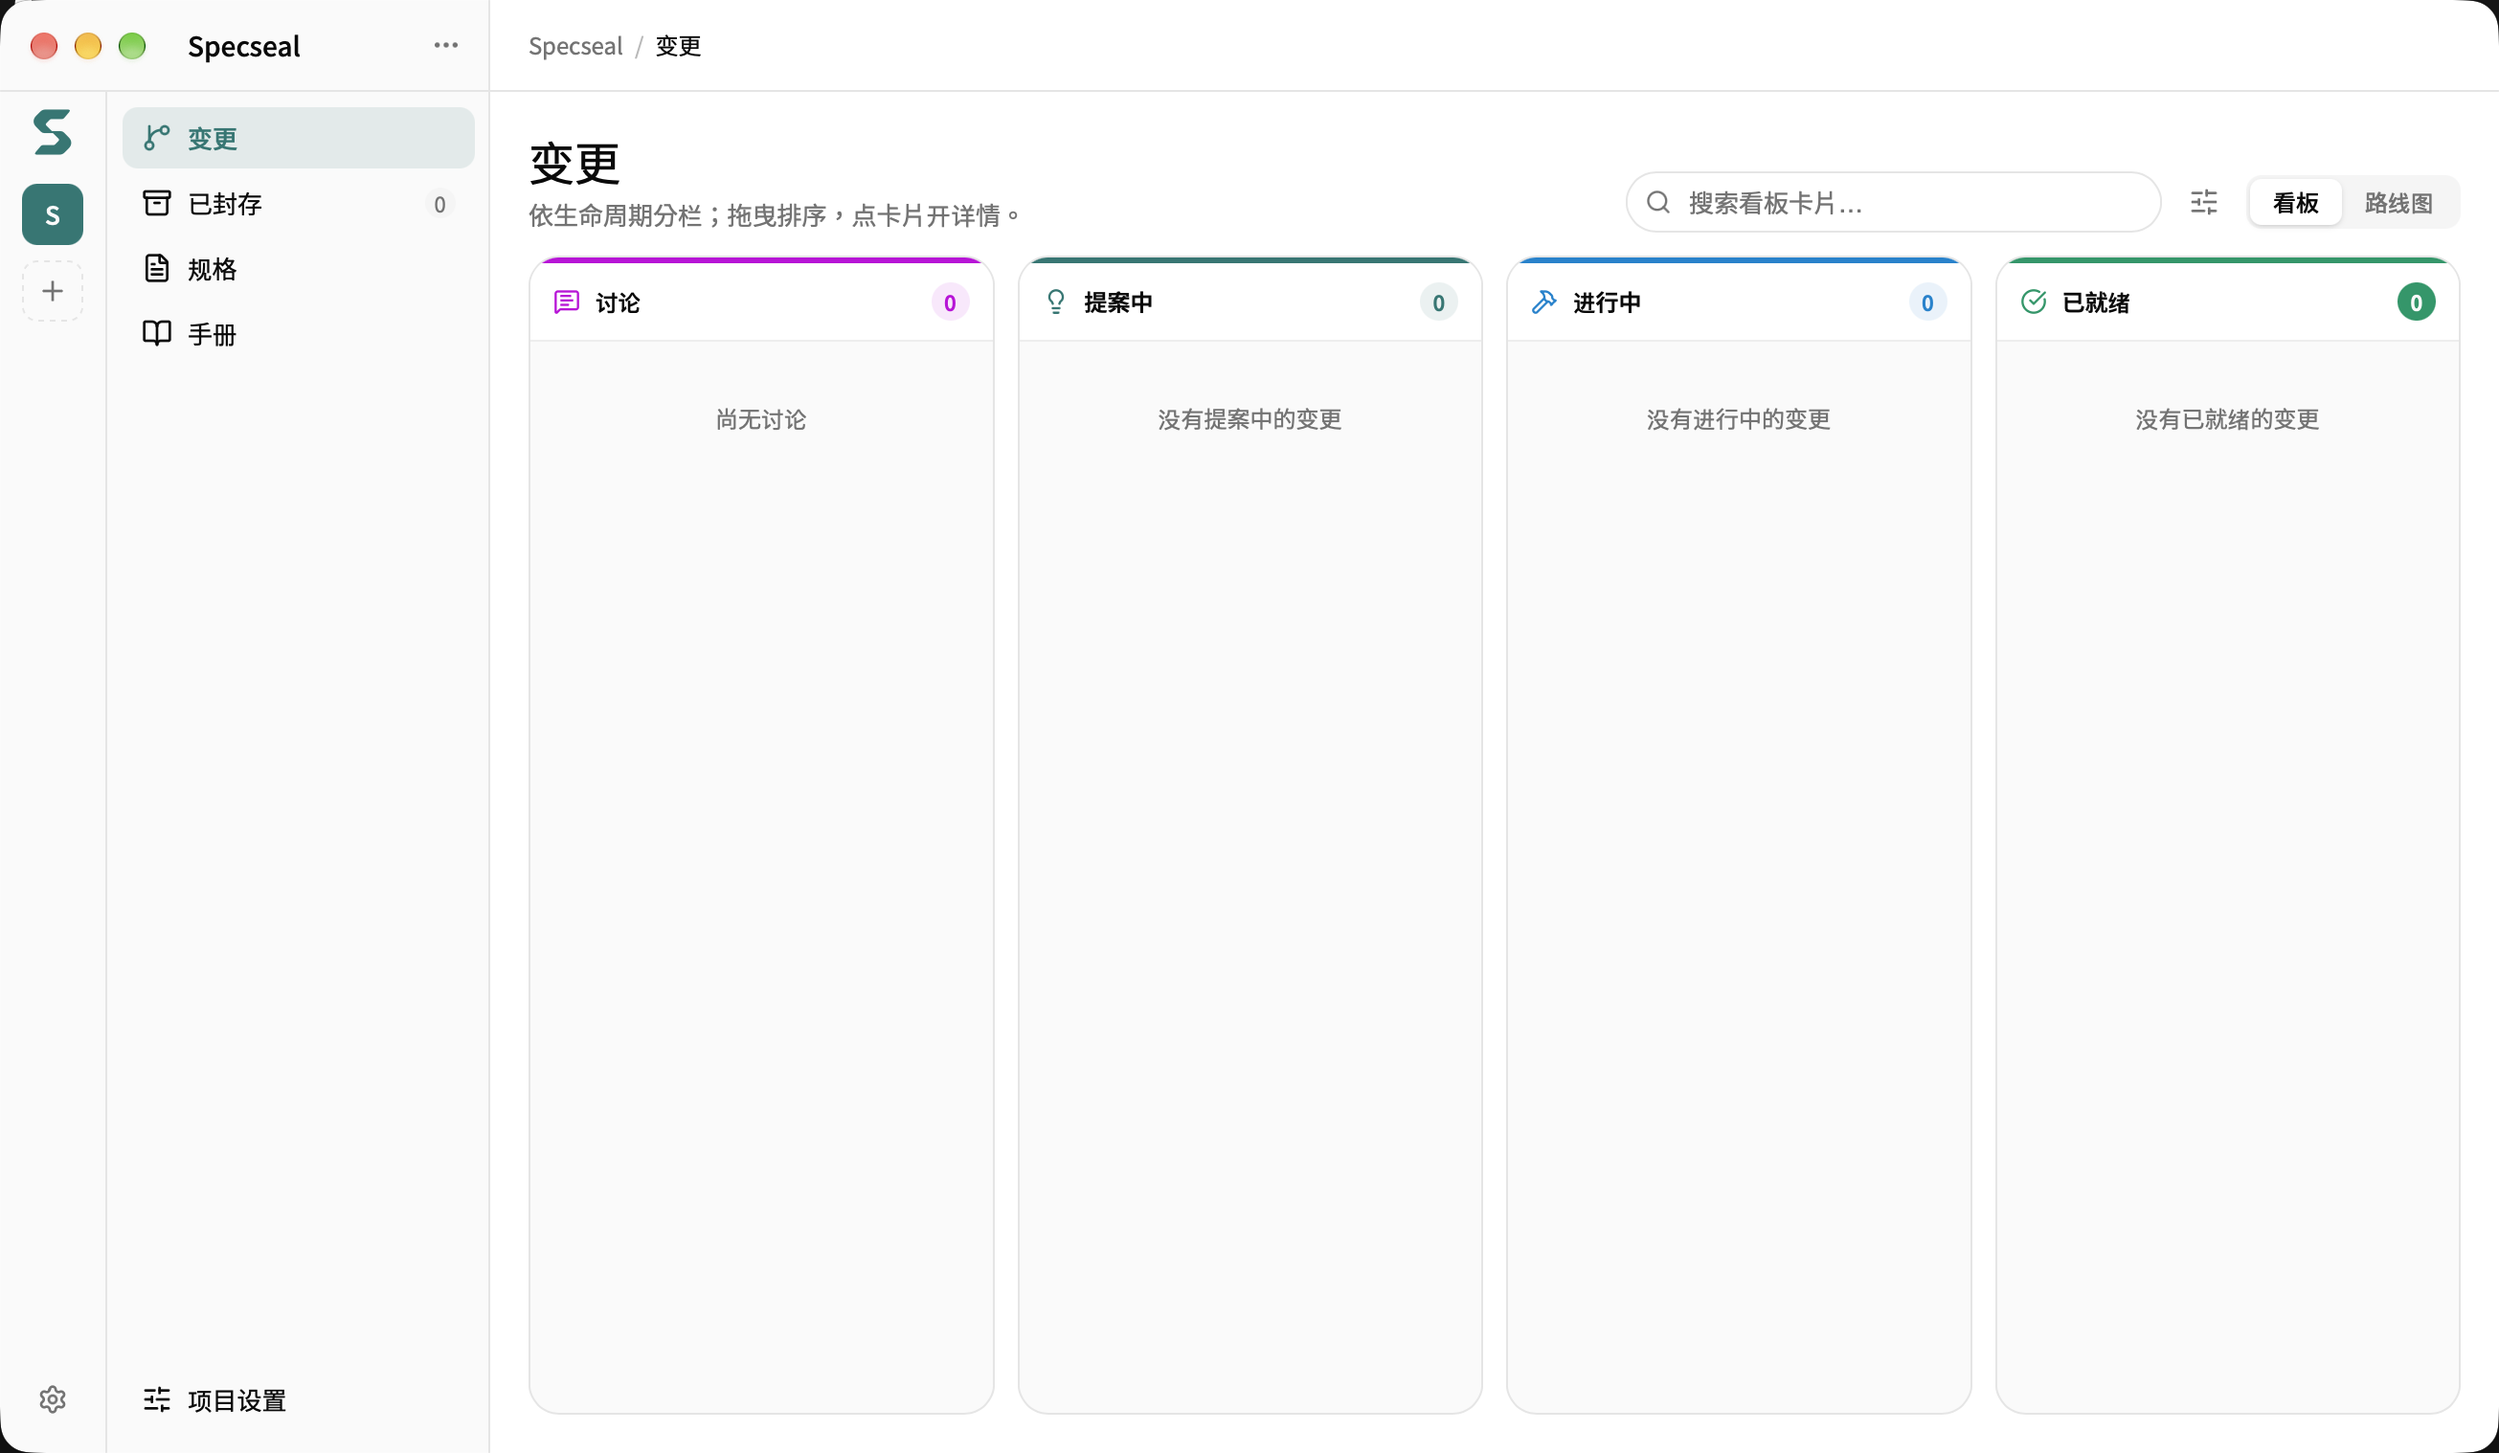
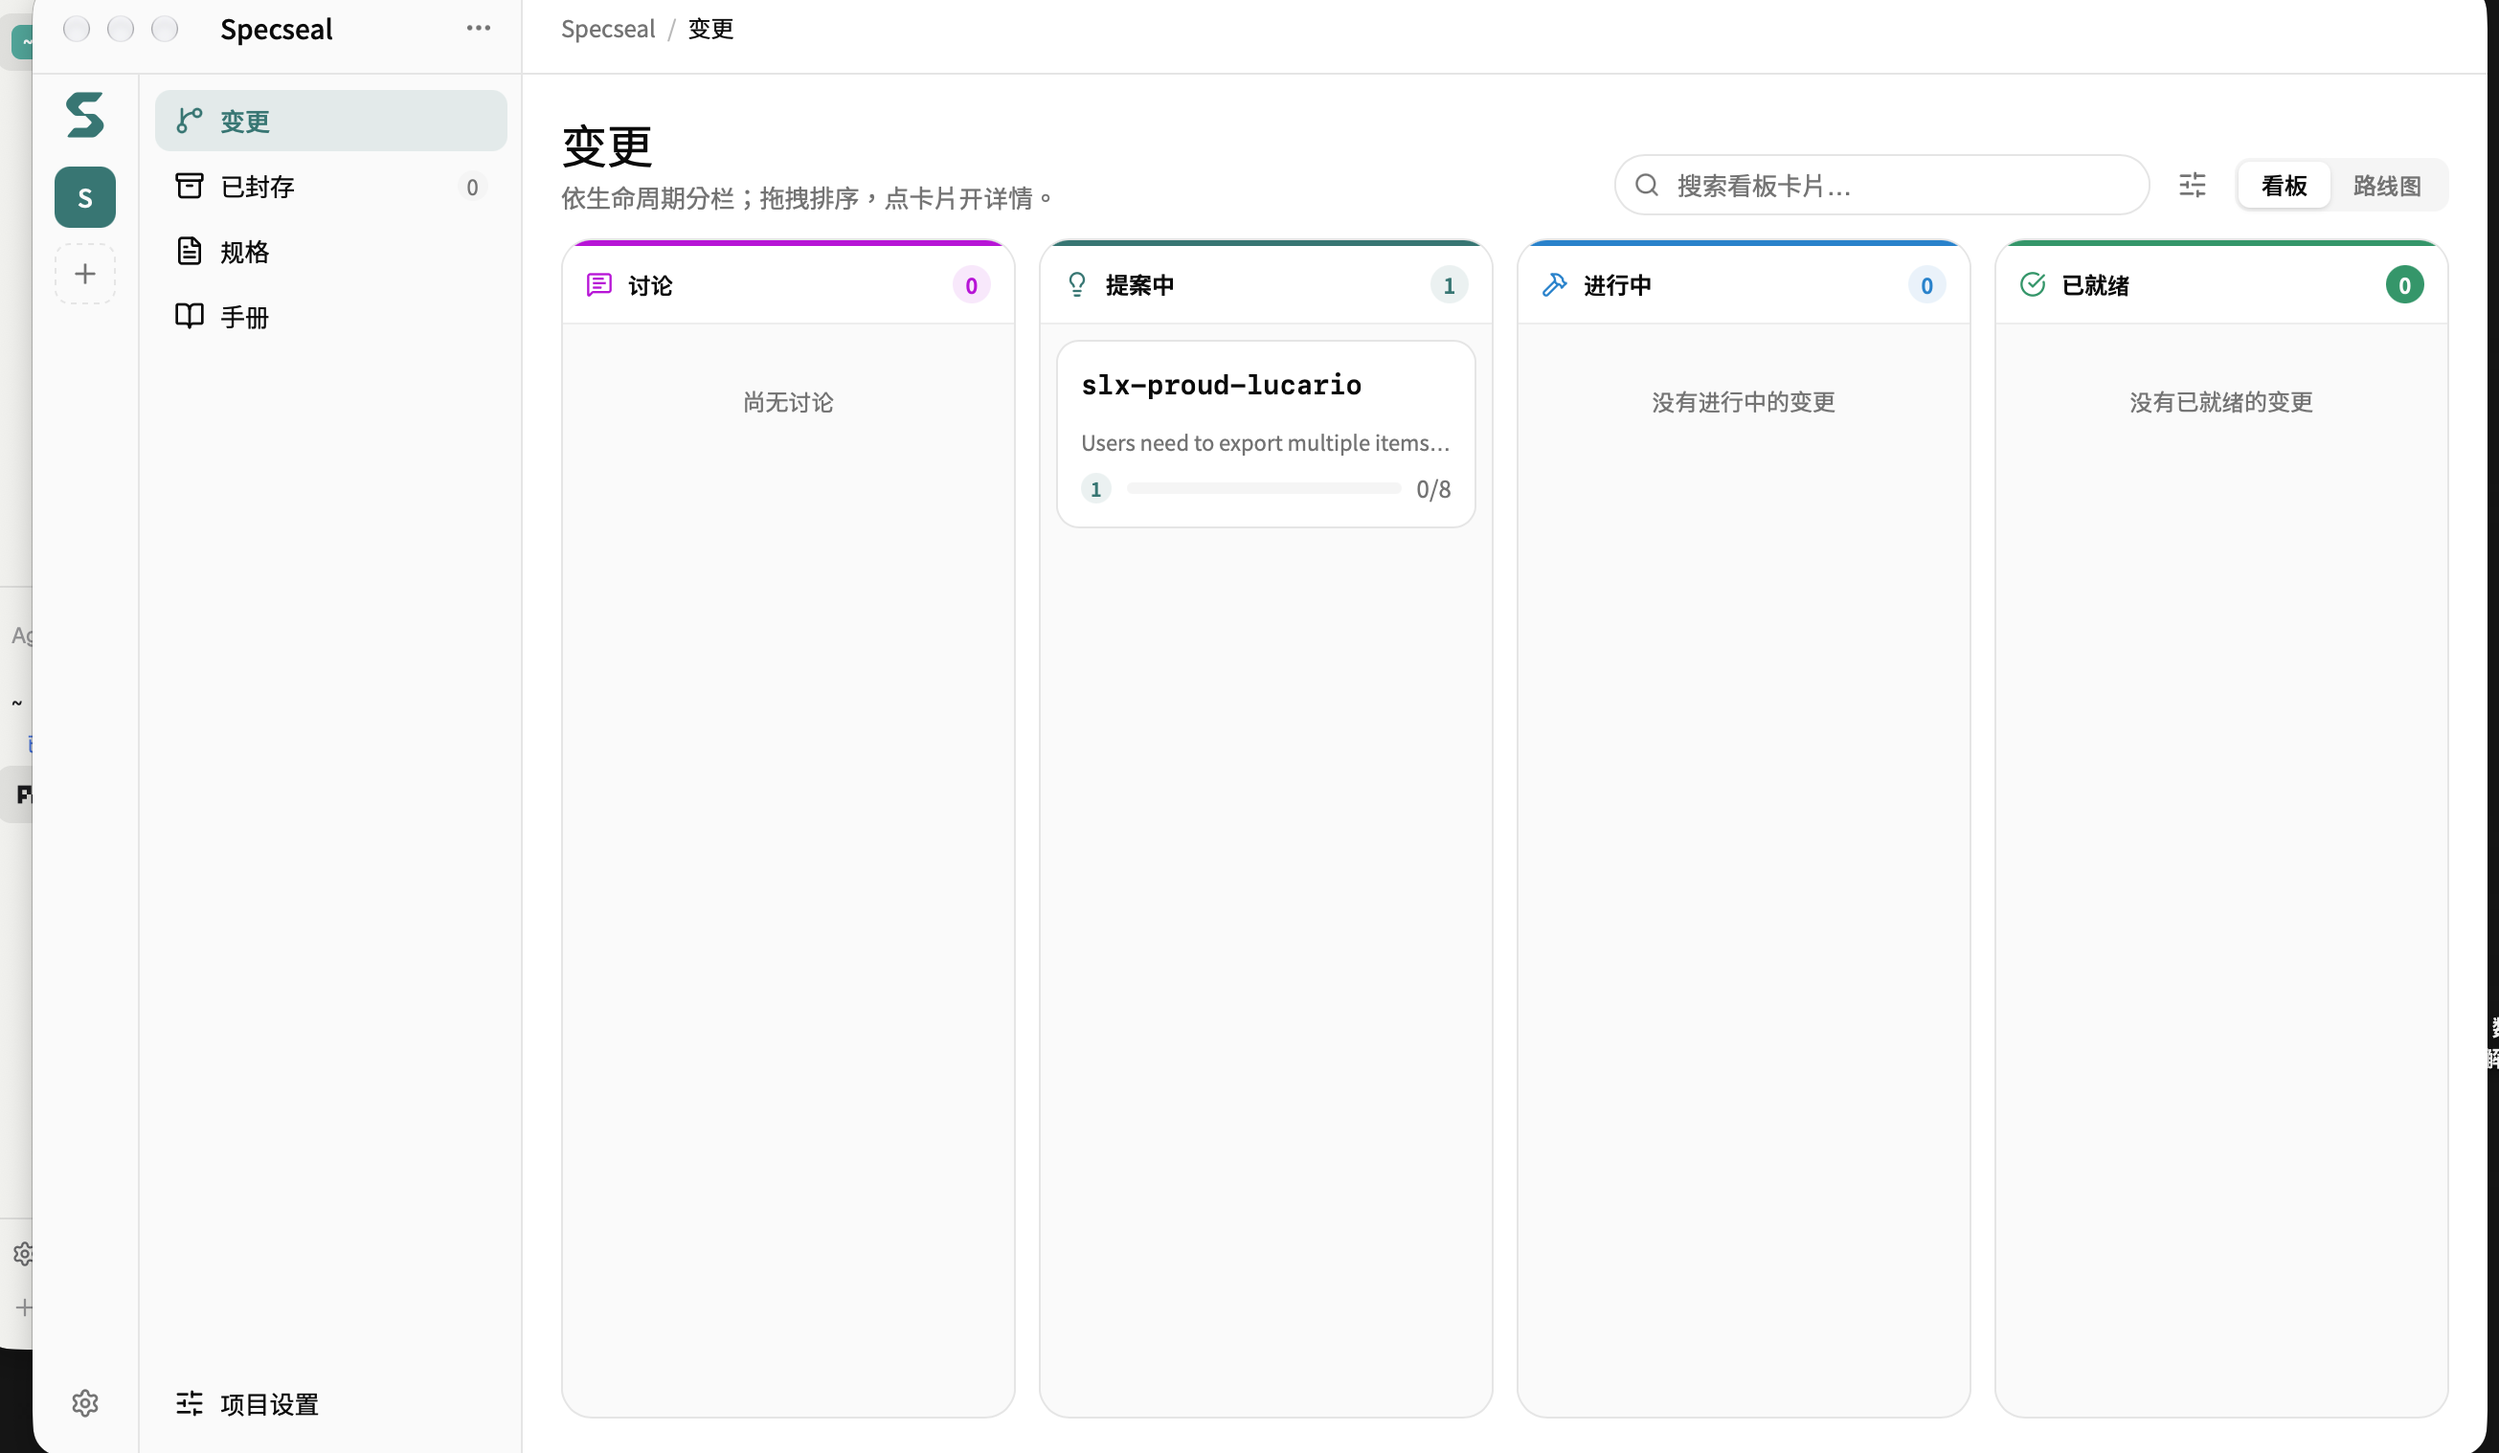
docs(screenshots): README 截图全部切换为简中实机图，繁中旧图清除
- 重截：已封存页；看板更新为含演示卡片的版本
- 删除全部繁中旧图（claude-code×3/tray/discussion/settings/server×4/herdr×2）
- README.zh-CN 截图区重构：仅保留简中实机图（board/manual/spec/cli），
  其余画面加「简中环境下重新截取后补充」说明
- 临时 demo 变更已 discard（保持全新工作区）
- 隐私：误截的含对话内容截图已即时删除未入库

diff --git a/integrations/herdr/README.en.md b/integrations/herdr/README.en.md
@@ -22,7 +22,7 @@ To run another skill, click `⋯`.
 
 The panel has two placements. Neither takes the keyboard. In both, the project follows the terminal that has focus, so a switch of space also switches the project.
 
-- **Docked**: with the cloned `specseal` layout (see "Install"), the panel stays in the rightmost column of the window, beside the terminals. `⌘⇧S` opens or closes this column. Drag its edge to change the width. Each space remembers its own open or closed state, and a switch of space restores it. A space with no saved state starts open, so close it once in a project that does not use Specseal.
+- **Docked**: the `specseal` layout keeps the panel on the right, collapsed by default for a space with no saved preference. Use the 12px Specseal icon at the top right, or `⌘⇧S`, to toggle it. Each space remembers manual changes. The Spaces “+” opens a compact menu with New workspace and Add project; the latter chooses a local folder before creating its terminal.
 - **Popped up**: in other layouts, `⌘⇧S` opens or closes the panel as a floating window that you can drag.
 
 What the panel contains:
@@ -222,73 +222,38 @@ The logo sends a `specseal://project` URL. The desktop app goes to the project o
 
 ## Install
 
-Work from the repo root, with Herdr open:
-
-1. Copy the mod. Herdr loads it automatically.
-
-   ```bash
-   cp -R integrations/herdr/mods/specseal integrations/herdr/mods/specseal-new ~/.config/herdr-app/mods/
-   ```
-
-2. In `~/.config/herdr-app/keys.json`, add the first two lines to `global`. Then add the `layout:specseal` section ([keys.json](keys.json) has the same content). `⌘⇧N` opens the Skills pop-up. In the `specseal` layout, `⌘⇧S` opens or closes the right column. In other layouts, `⌘⇧S` pops up the floating window.
-
-   ```json
-   "cmd-shift-s": "mod.open:specseal",
-   "cmd-shift-n": "mod.open:specseal-new"
-   ```
-
-   ```json
-   "layout:specseal": { "cmd-shift-s": "layout.toggle:specseal" }
-   ```
-
-3. To dock the panel, run this line. It clones Herdr's `main` layout as the `specseal` layout, adds the panel as the rightmost column, replaces the left sidebar with clones connected to Specseal, and switches to it. To keep the pop-up only, skip this step.
-
-   ```bash
-   node scripts/herdr/dock-panel.mjs
-   ```
-
-4. To let the panel know the commands that you type in Claude Code, add the hooks. See "Track what you type directly".
-
-Use `⌘⇧L` to switch layouts.
-
-### Update the mod
-
-The cloned sidebar mods hold copies of the panel files, so copy them too. Herdr reloads at once. The layout and the column widths do not change:
-
-```bash
-M=integrations/herdr/mods/specseal; H=~/.config/herdr-app/mods
-cp -R $M integrations/herdr/mods/specseal-new $H/
-cp $M/i18n.js $M/model.js $M/shared.js $H/specseal-agents/
-cp $M/i18n.js $H/specseal-spaces/
-```
-
-If `integrations/herdr/spaces-badge/`, `integrations/herdr/agents-list/` or `scripts/herdr/dock-panel.mjs` changed, dock again. See the next section.
-
-Do not install with a symbolic link. Herdr loads the code, but it does not draw the SVG icons behind a link, and a save does not reload the mod.
-
-### Dock again after a Herdr update
-
-A clone does not follow Herdr updates: new things in Herdr's `main` layout, Spaces list or Agents list do not appear in the `specseal` layout. `cloned_from.version` in `~/.config/herdr-app/layouts/specseal.json` is the Herdr version at the time of the clone. When it differs from `herdr-app --version`, dock again. Run the same line:
+From the repository root, with Herdr open, run the same commands for installation and updates:
 
 ```bash
 node scripts/herdr/dock-panel.mjs
+node scripts/herdr/verify-install.mjs
 ```
 
-The script does these steps:
+The installer copies the panel, skill picker, project menu and derived mods together, then merges [keys.json](keys.json). Personal shortcuts are preserved; conflicts report the key name. `⌘⇧N` opens Skills, and `⌘⇧S` toggles the panel in the Specseal layout.
 
-1. It switches to `main`.
-2. It renames the old clone to `layouts/specseal.json.old-<time>` and deletes the old `mods/specseal-spaces`, `mods/specseal-agents`, `mods/specseal-files`, `mods/specseal-changes` and `mods/specseal-tabs`.
-3. It clones the new `spaces`, `agents`, `files`, `changes` and `tabs` and connects them. If Herdr changed the lines that the script edits in `spaces` or `agents`, the script stops before it changes anything. If it cannot edit `files`, `changes` or `tabs`, it warns, uses the built-in mod, and continues.
-4. It clones the new `main`, adds the panel, and switches to the new `specseal` layout.
+The repository owns these controls:
 
-If you edited `keys.json`, a Herdr update does not add new shortcuts, so add them yourself. For example, for terminal search in 0.1.13, add `"cmd-f": "terminal.search"` to the `terminal` section.
+- The Spaces “+” opens a 156px two-item menu. Add project uses the native folder picker, preserves paths with spaces and Unicode, reuses an existing local project, and does nothing on cancellation.
+- The panel toggle is a 12px icon beside Files / Changes at the top right; no large button is added to the left title bar.
+- The panel starts collapsed, then remembers manual open/closed preferences per space.
+- Terminals and agents follow Herdr's existing current-directory inheritance; a later manual `cd` also affects new tabs.
 
-After this, the panel column has its default width, and the other column widths and open or closed states are the same as in `main`. The state that each space remembers does not change. If you edited the old clone by hand, your edits are in the `.old` file, and you must move them yourself. You can delete the `.old` file when all is well.
+For commands typed directly into Claude Code, configure the optional hooks described above. `⌘⇧L` switches layouts.
+
+### Updates and backups
+
+Run the same two commands after updating this repository or Herdr. No manual copying is required. Herdr 0.1.15 has been verified. If a required source anchor changes, installation stops before modifying the current configuration. File-name protection and tab-scroll fixes are optional; the project menu and right-hand toggle are required.
+
+The first installation starts from Herdr's `main`. Later installations preserve the existing Specseal layout's theme, widths and unrelated blocks, update managed components, and do not duplicate the panel. An unexpected custom component at a managed block causes an error rather than being overwritten.
+
+The previous layout, shortcuts and managed modules are backed up under `~/.config/herdr-app/backups/specseal/<timestamp>/`. Failure to activate the new layout restores the previous files automatically. These backups are also available for manual recovery. Project files and terminal/session data are outside the installer's write scope.
+
+Do not symlink UI components: Herdr may not render linked SVGs or reload saved changes. Derived modules are refreshed from the installed Herdr version, but new structural blocks from an updated `main` are not imported automatically.
 
 ### Remove
 
 1. Press `⌘⇧L` to switch to `main`.
-2. Delete `~/.config/herdr-app/layouts/specseal.json`, and `specseal`, `specseal-new`, `specseal-spaces`, `specseal-agents`, `specseal-files`, `specseal-changes` and `specseal-tabs` in `~/.config/herdr-app/mods/`.
+2. Delete `~/.config/herdr-app/layouts/specseal.json`, and `specseal`, `specseal-new`, `specseal-workspace-menu`, `specseal-spaces`, `specseal-agents`, `specseal-files`, `specseal-changes` and `specseal-tabs` in `~/.config/herdr-app/mods/`.
 3. Remove the additions from `keys.json`.
 
 ### Why a cloned layout
